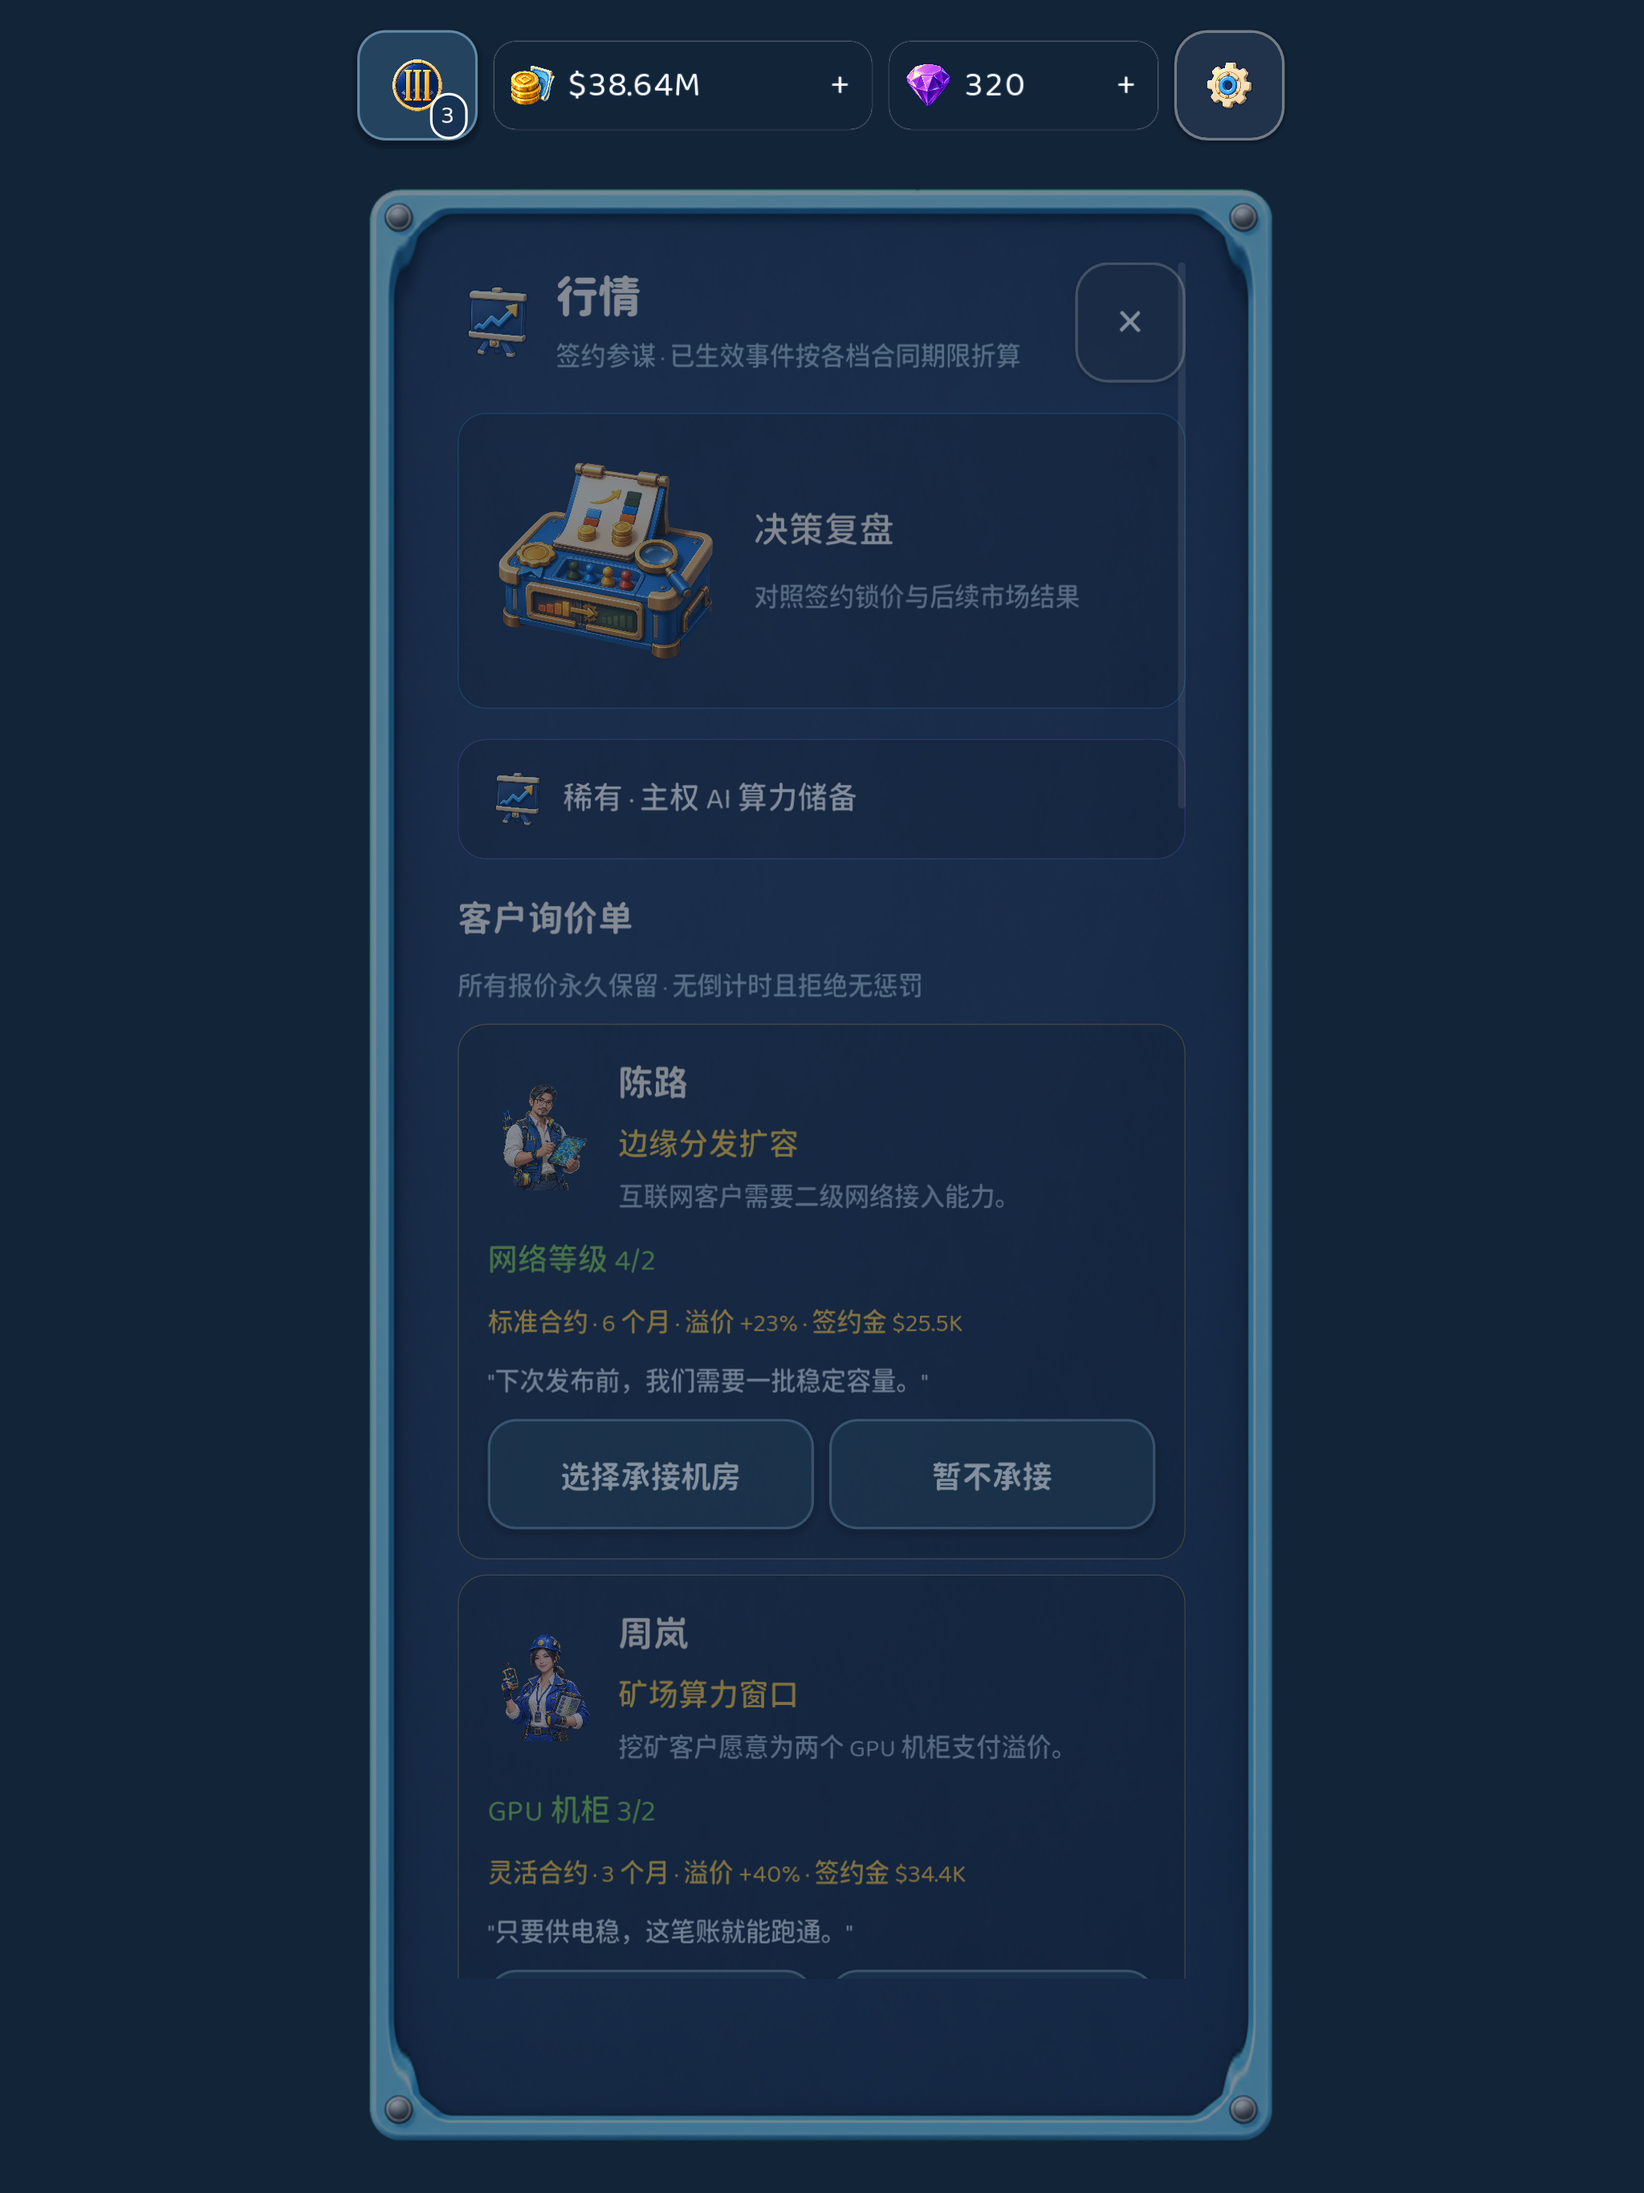
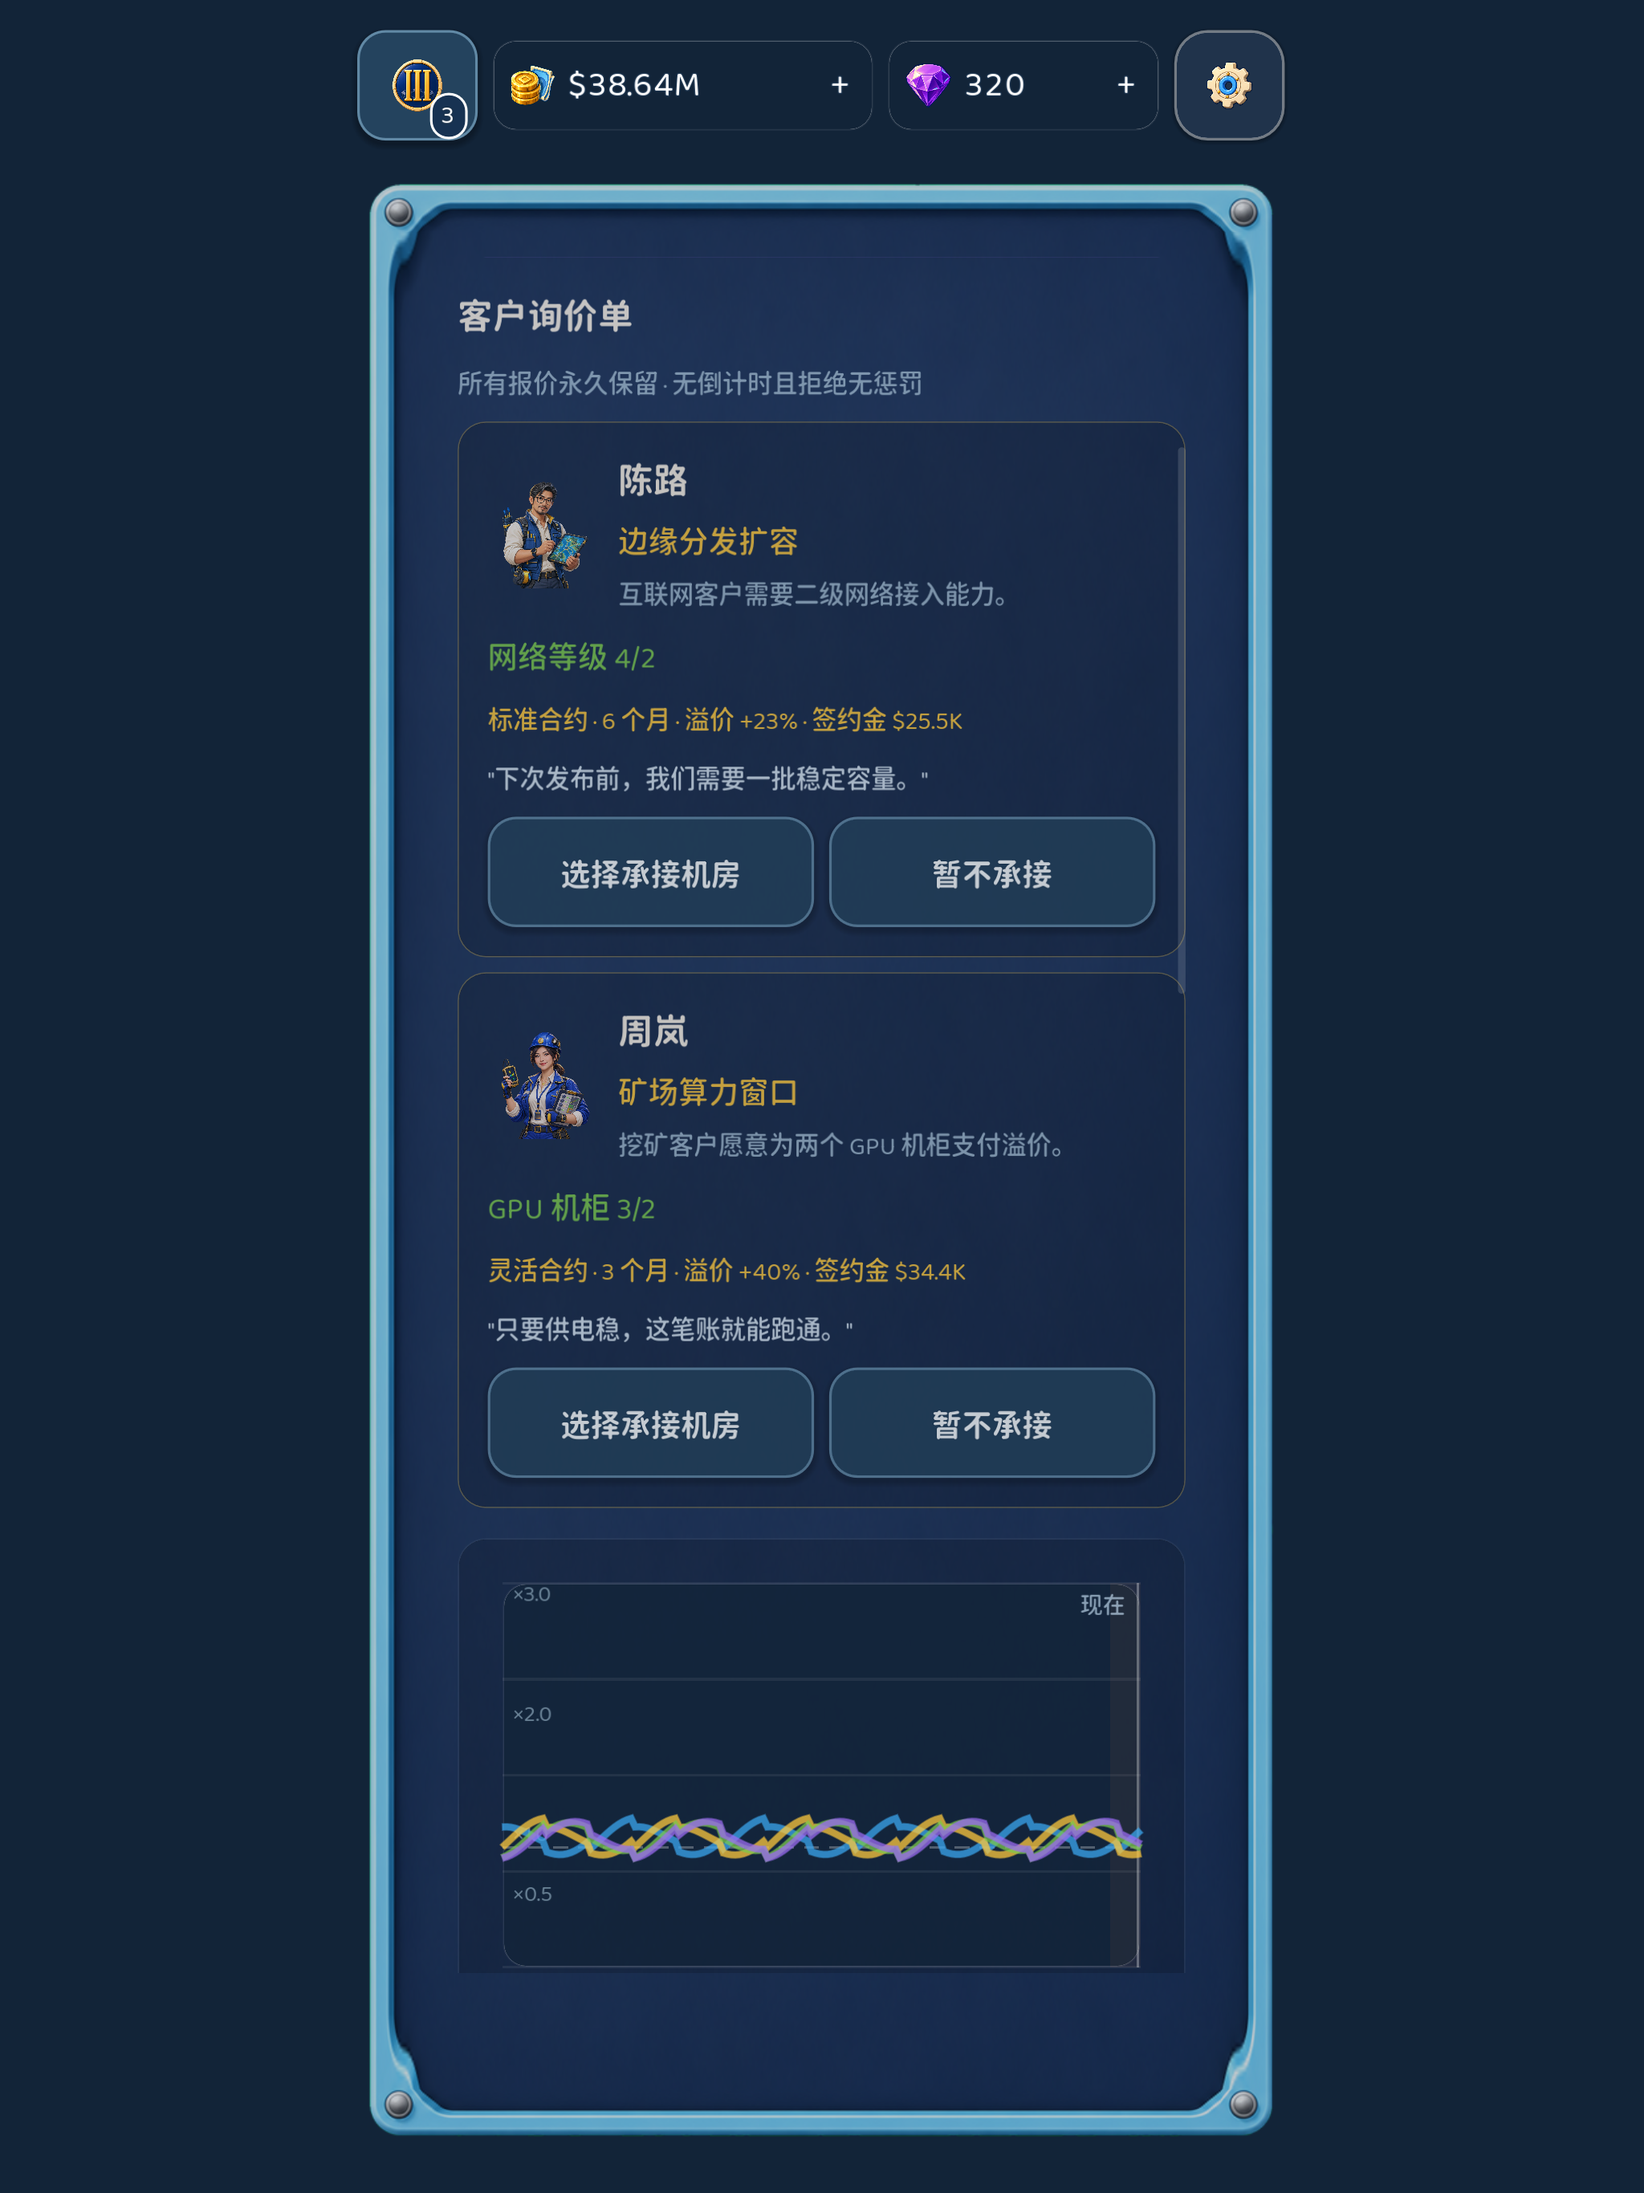
Complete submission last-mile acceptance

Changed region(s): [[0.2188, 0.0622, 0.7812, 0.9956], [0.5625, 0.3734, 0.6562, 0.4045], [0.6875, 0.3734, 0.7188, 0.4356]]

diff --git a/README.md b/README.md
@@ -56,6 +56,8 @@ godot --disable-vsync --max-fps 200 --path . tests/full_campaign.tscn
 godot --disable-vsync --max-fps 60 --path . tests/visual_smoke.tscn -- --locale=en
 godot --disable-vsync --max-fps 60 --path . tests/visual_smoke.tscn -- --locale=zh_CN
 godot --fixed-fps 60 --path . tests/store_shots.tscn -- --locale=en --device=iphone_69
+godot --fixed-fps 60 --path . tests/store_shots.tscn -- --locale=zh_CN --device=iphone_69
+godot --fixed-fps 60 --path . tests/store_shots.tscn -- --locale=en --device=ipad_13
 godot --fixed-fps 60 --path . tests/store_shots.tscn -- --locale=zh_CN --device=ipad_13
 godot --disable-vsync --max-fps 240 --path . tests/performance_smoke.tscn
 python3 tools/validate_data.py
@@ -65,7 +67,7 @@ python3 tools/report_release_economy.py
 
 `tests/flow_audit.tscn` 从全新存档走完整 FTUE，逐步断言场景上下文、唯一可点目标、聚光灯交集、抽屉实时数据、特效生命周期与休眠/唤醒状态，并确认教程期客户人设与机房猫不可见、不可点；非 headless 运行时同时输出 `/tmp/dct_flow_*.png`。GitHub Actions 会执行数据校验、243 项逻辑、流程/战役/性能门禁，以及双语 49 态与 SE/标准/iPad 三档渲染回归。性能门禁另以 100 座机房验证 13 页园区切分、单页可见集、统一建筑朝向、单猫状态机及其爱心特效清理。
 
-`tests/tutorial_playthrough.tscn` 只用触摸走完新手教程；`tests/full_campaign.tscn` 接着往下打——从全新存档按"月"推进，边玩边刷新真实 UI，一路走到时代 2、时代 3 和第一次上市重组，断言故障降效/修复、期限折算锁价（同局灵活约 > 标准约）/自动续约/免费改签、退役收割、银行接管兼容、询价/成组/扩编、离线结算、页面切换与顶部信息带不互相遮挡，输出 `/tmp/dct_camp_*.png`。审计记录见 [docs/17_full_campaign_audit.md](docs/17_full_campaign_audit.md)。
+`tests/tutorial_playthrough.tscn` 只用触摸走完新手教程；`tests/full_campaign.tscn` 接着往下打——从全新存档按"月"推进，边玩边刷新真实 UI，一路走到时代 2、时代 3 和第一次上市重组，再续跑第二家公司 30 个游戏月。门禁断言故障降效/修复、期限折算锁价（同局灵活约 > 标准约）/自动续约/免费改签、退役收割、银行接管兼容、询价/成组/扩编、离线结算、跨局工程部重购/董事会加成/典藏去重/公司纪念册，以及第二局 20 座必须快于第一局；同时检查页面切换与顶部信息带不互相遮挡，输出 `/tmp/dct_camp_*.png`。审计记录见 [docs/17_full_campaign_audit.md](docs/17_full_campaign_audit.md)。
 
 `tests/store_shots.tscn` 用同一份后期存档夹具和真实 `main.tscn` 生成 App Store 截图。它在目标像素尺寸的 `SubViewport` 中原生渲染，不依赖桌面窗口高度，也不会把小图放大。分别对 `en/zh_CN` 与 `iphone_69/ipad_13` 四种组合运行即可复现全部 20 张交付图。
 

diff --git a/docs/17_full_campaign_audit.md b/docs/17_full_campaign_audit.md
@@ -1,6 +1,6 @@
 # 17 · 全流程通关审计（内测前）
 
-目标：不只验证新手教程，而是**把整局游戏打完**——确认内测玩家从全新存档一路能走到时代 3 和第一次上市重组，中途不会卡死、不会状态错乱、不会遇到走不出去的界面。
+目标：不只验证新手教程，而是**把整局游戏打完**——确认内测玩家从全新存档一路能走到时代 3 和第一次上市重组，并在第二家公司续跑 30 个游戏月，中途不会卡死、不会状态错乱、不会遇到走不出去的界面。
 
 ## 1. 手段
 
@@ -18,7 +18,7 @@
 - 机柜只放在**制冷压得住**且**变压器供得上**的槽位——过热只有一半收入，没电则完全没有收入；
 - 所有地都用起来了才买下一块。
 
-跑到"时代 3 且累计建成 20 座"就停，然后验证离线返回、上市重组，以及重组之后能否重新开局。
+首局跑到"时代 3 且累计建成 20 座"后，验证离线返回与上市重组；第二局立即用带回财富重购工程部、分配董事会点数，再续跑 30 个游戏月，确认跨局价值真正转化为更快的建设节奏。
 
 ## 2. 结果
 
@@ -44,6 +44,19 @@
 - 上市重组成功：品牌倍率 ×1.177，返还净资产 1.51M 现金，时代进度保留，园区回到 1 块地，且重组后能立刻重新开工。
 
 **结论：内测可以打通。** 130 游戏月 ≈ 260 小时真实时间（1 游戏月 = 2 小时），对挂机品类是合理的首轮长度。
+
+### 2.1 24 号二周目加固（2026-08-30）
+
+24 号发布收口把门禁从"重组后能开工"扩展为完整的二周目。最终验收轮次的首局在第 119 月达到 20 座，并以 24 座、净值 $1.73M 完成重组；二局第 11 月已达 21 座，第 30 月为 59 座、$3.22M 现金、$414.8K/月收入。不同独立运行的首局会因持久随机序列在 114–119 月之间波动；门禁不锁死某个绝对月份，而是直接断言同局二局达 20 座必须快于首局。
+
+新增端到端证据：
+
+- 带回现金立即按权威价格重购工程部 L2，队列容量从 2 真实恢复为 3，并同时接纳 3 个真实建设项目；
+- 一点董事会商业加成在 `datacenter_income_per_month` 权威公式内只生效一次，`Game` 封装计算与公式结果逐值一致；
+- 第一局路线图领取、典藏发现与已领组、客户/行情发现、公司纪念册全部保留；重复领取返回 `already_claimed` 且不重复发放钻石；
+- 二局 30 个月每个分段持续断言无负现金、无 `game_over`、无不可退出页面，末尾再走一次全页面导航。
+
+本轮完整门禁墙钟时间为 81.96 秒。历史基线未保留可比的秒级记录，因此只记录当前实测值，不伪造增幅。为验证新断言不是空壳，将"二局更快"条件故意取反后，门禁会稳定变红；恢复正确条件后全绿。
 
 ## 3. 过程中暴露并已修复的问题
 

diff --git a/docs/release_checklist.md b/docs/release_checklist.md
@@ -10,11 +10,11 @@
 
 ## Automated gates
 
-- [x] `python3 tools/validate_data.py`（2026-08-28：16 表、双语、180 art IDs）
-- [x] `godot --headless --path . tests/test_runner.tscn`（2026-08-28：243 passed）
-- [x] `flow_audit` / `midgame_audit` / 真实触摸 `tutorial_playthrough` / `full_campaign`（2026-08-28：全部通过；战役第 118 月 20 座、最终 23 座并完成重组）
-- [x] `visual_smoke` 中英标准档各 49 态（990×2151），SE / iPad 中英各 8 个关键态（750×1334 / 1024×1366），全部通过裁剪、贴边、叠印与触控断言
-- [x] `godot --disable-vsync --max-fps 240 --path . tests/performance_smoke.tscn`（2026-08-28：100 座机房、13 园区页、当前页 6 对象；average 6.63ms / p95 7.01ms / 30 粒子与猫特效零残留 / 节点差 0）
+- [x] `python3 tools/validate_data.py`（2026-08-30：17 表、双语、180 art IDs）
+- [x] `godot --headless --path . tests/test_runner.tscn`（2026-08-30：243 passed）
+- [x] `flow_audit` / `midgame_audit` / 真实触摸 `tutorial_playthrough` / `full_campaign`（2026-08-30：全部通过；本轮首局第 119 月达 20 座、完成重组，二局第 11 月达 21 座并续跑至第 30 月 59 座）
+- [x] `visual_smoke` 中英标准档各 49 态（990×2151），SE / iPad 中英各 8 个关键态（750×1334 / 1024×1366），2026-08-30 全量复跑通过裁剪、贴边、叠印与触控断言
+- [x] `godot --disable-vsync --max-fps 240 --path . tests/performance_smoke.tscn`（2026-08-30：100 座机房、13 园区页、当前页 6 对象；average 7.67ms / p95 15.75ms / 30 粒子与猫特效零残留 / 节点差 0）
 - [ ] iPhone 12 与 iPhone 17 各跑一次 Instruments：六机房 + 金币并发保持 60fps；本项不能用桌面烟测替代
[1 lines of base64/hex data omitted]
 - [x] `python3 tools/check_assets.py --strict --audio`（2026-08-28：180 art / 6 font / 23 audio，纹理分类 45 无损 + 135 VRAM）

diff --git a/docs/store/README.md b/docs/store/README.md
@@ -36,3 +36,5 @@ python3 tools/check_app_store_assets.py
 ```
 
 两种语言共用 `tests/store_showcase_fixture.gd` 的同一份后期存档与相同相机位置，仅切换本地化。iPad 画面按既有 `aspect=keep` 保留比例，信箱区域固定使用主题底色 `#122438`。
+
+仅复核某一屏时可附加 `--shot=park|datacenter|market|technology|prestige`；不传或传 `--shot=all` 仍产出完整五屏。行情截图会滚动真实页面到两张询价人设卡与历史曲线的共同可见区，不会只检查屏外节点就冒充完成构图。

diff --git a/docs/store/screenshots/README_review.md b/docs/store/screenshots/README_review.md
@@ -2,6 +2,8 @@
 
 以下 20 张图片由 `tests/store_shots.tscn` 从同一份真实存档夹具原生渲染。中英版本只切换语言；画面状态、相机和页面位置保持一致。
 
+行情屏定位在两张询价人设卡与历史曲线的交界，以同屏展示永不过期的主动报价和真实行情轨迹。
+
 ## 简体中文 · iPhone 6.9 英寸
 
 | 园区 | 机房 | 行情 | 科技 | 上市重组 |
